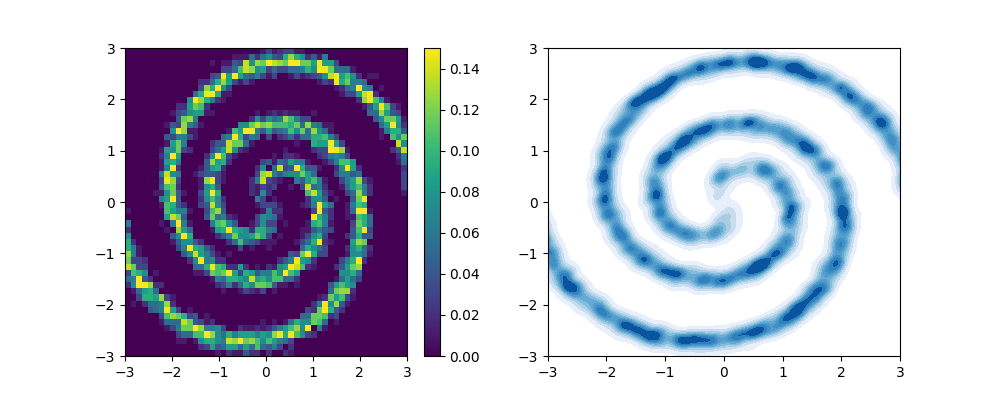
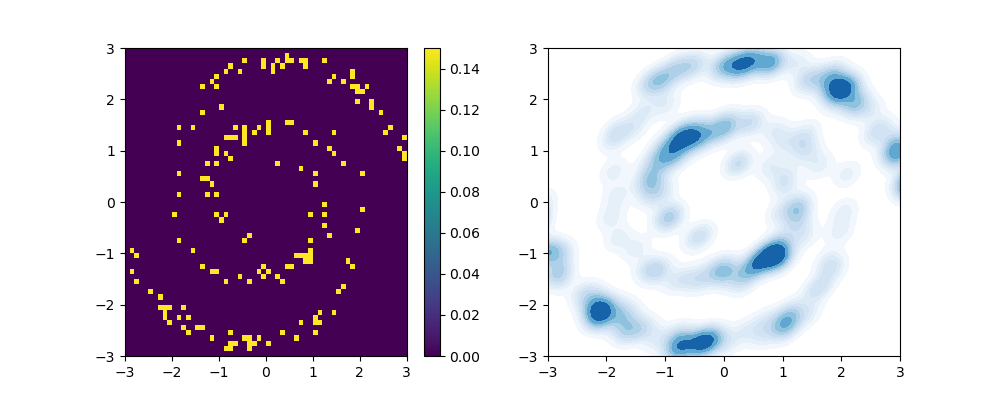
generic commit

diff --git a/scripts/transport/kvae_flow3.py b/scripts/transport/kvae_flow3.py
@@ -100,7 +100,6 @@ class Comp_transport_model:
     def map_var(self, x_mu, y_eta, y_mean, Lambda_var, X_var, fit_kernel):
         if self.approx:
             y_mean = geq_1d(torch.tensor(y_mean, device=self.device, dtype=self.dtype))
-            return 0 * y_mean
         else:
             y_mean = deepcopy(y_eta)
             y_eta = shuffle(y_eta)
@@ -137,22 +136,22 @@ class Comp_transport_model:
         param_dict = {'y_eta': y_eta, 'y_mean': y_mean + z_mean, 'y_var': y_var + z_var, 'x_mu': x_mu,
                        'y_approx': y_approx + z, 'y': torch.concat([x_mu, y_approx + z], dim=1)}
 
-
         if self.plot_steps:
             save_loc = f'../../data/kernel_transport/spiral_kflow/gen_map{step_idx}.png'
             map_vec = param_dict['y'].detach().cpu().numpy()
             sample_hmap(map_vec, save_loc, bins=75, bw_adjust= 0.25,
                     d=2, range=[[-3, 3], [-3, 3]])
+
         return param_dict
 
 
     def c_map(self, x, y, no_x = False):
+        self.approx = False
         param_dict = {'y_eta': y, 'y_mean': 0 , 'y_var': 0,
                        'x_mu': x, 'y_approx': 0, 'y': 0}
-        self.approx = False
         for step_idx in range(len(self.submodel_params['Lambda_mean'])):
             param_dict = self.param_map(step_idx, param_dict)
-            self.approx = True
+            self.approx=True
         if no_x:
             return param_dict['y_approx']
         return param_dict['y']
@@ -183,8 +182,8 @@ class CondTransportKernel(nn.Module):
 
         self.Y_mean = self.Y_eta
         self.Y_var = torch.zeros(self.Y_eta.shape,  device=self.device, dtype=self.dtype)
-        self.approx = self.params['approx']
-        if self.approx:
+        self.params['approx'] = False
+        if len(base_params['Y_mean']):
             self.Y_mean = geq_1d(torch.tensor(base_params['Y_mean'], device=self.device, dtype=self.dtype))
             self.Y_var = geq_1d(torch.tensor(base_params['Y_var'], device=self.device, dtype=self.dtype))
             self.params['approx'] = True
@@ -208,7 +207,6 @@ class CondTransportKernel(nn.Module):
 
         self.params['mmd_kernel_params']['l'] *= l_scale(self.Y_mu).cpu()
         self.mmd_kernel = get_kernel(self.params['mmd_kernel_params'], self.device)
-
         self.Z_mean = nn.Parameter(self.init_Z(), requires_grad=True)
         self.Z_var = nn.Parameter(self.init_Z(), requires_grad=True)
         self.mmd_YY = self.mmd_kernel(self.Y, self.Y)
@@ -217,7 +215,7 @@ class CondTransportKernel(nn.Module):
         self.Y_mean_test = deepcopy(self.Y_eta_test)
         self.Y_var_test = 0 * self.Y_eta_test
 
-        if self.approx:
+        if self.params['approx']:
             self.Y_mean_test = geq_1d(torch.tensor(base_params['Y_mean_test'], device=self.device, dtype=self.dtype))
             self.Y_var_test = geq_1d(torch.tensor(base_params['Y_var_test'], device=self.device, dtype=self.dtype))
 
@@ -260,7 +258,7 @@ class CondTransportKernel(nn.Module):
 
 
     def map_mean(self, x_mu, y_eta, y_mean):
-        if self.approx:
+        if self.params['approx']:
             y_mean = geq_1d(torch.tensor(y_mean, device=self.device, dtype=self.dtype))
         else:
             y_mean = deepcopy(y_eta)
@@ -271,9 +269,8 @@ class CondTransportKernel(nn.Module):
 
 
     def map_var(self, x_mu, y_eta, y_mean, y_var = []):
-        if self.approx:
+        if self.params['approx']:
             y_mean = geq_1d(torch.tensor(y_mean, device=self.device, dtype=self.dtype))
-            return 0 * y_mean
         else:
             y_mean = deepcopy(y_eta)
             y_eta = shuffle(y_eta)
@@ -299,7 +296,7 @@ class CondTransportKernel(nn.Module):
         z = z_mean + z_var
 
         y_approx = deepcopy(y_eta)
-        if self.approx:
+        if self.params['approx']:
             y_approx = y_mean + y_var
         y_eta = shuffle(y_eta)
         return_dict = {'y_eta': y_eta, 'y_mean': y_mean + z_mean, 'y_var': y_var + z_var,
@@ -324,7 +321,7 @@ class CondTransportKernel(nn.Module):
 
 
     def loss_mmd(self):
-        map_vec = torch.concat([self.X_mu, self.Y_approx  + self.Z_mean +  self.Z_var * float(self.approx)], dim=1)
+        map_vec = torch.concat([self.X_mu, self.Y_approx  + self.Z_mean +  self.Z_var], dim=1)
         target = self.Y
 
         mmd_ZZ = self.mmd_kernel(map_vec, map_vec)
@@ -342,7 +339,7 @@ class CondTransportKernel(nn.Module):
 
     def loss_reg(self):
         Z_mean = self.Z_mean
-        Z_var = self.Z_var * float(self.approx)
+        Z_var = self.Z_var
 
         reg_1 = self.params['reg_lambda'] * torch.trace(Z_mean.T @ self.fit_kXXmean_inv @ Z_mean)
         reg_2 = self.params['reg_lambda'] * torch.trace(Z_var.T @ self.fit_kXXvar_inv @ Z_var)
@@ -369,32 +366,31 @@ class CondTransportKernel(nn.Module):
         return loss, loss_dict
 
 
-def cond_kernel_transport(X_mu, Y_mu, Y_eta, params, n_iter = 101,  iters = 0,  approx = False, X_mu_test = [],
-                          Y_mean = [],Y_var = [], Y_eta_test = [],Y_mu_test = [], Y_mean_test = [], Y_var_test =[]):
+def cond_kernel_transport(X_mu, Y_mu, Y_eta, params, n_iter = 10001, Y_mean = [],Y_var = [], iters = 0,
+                          Y_eta_test = [], X_mu_test = [],Y_mu_test = [], Y_mean_test = [], Y_var_test =[]):
     transport_params = {'X_mu': X_mu, 'Y_mu': Y_mu, 'Y_eta': Y_eta, 'reg_lambda': 1e-5, 'Y_mean': Y_mean, 'Y_var': Y_var,
                         'fit_kernel_params': deepcopy(params['mmd']), 'mmd_kernel_params': deepcopy(params['fit']),
                         'print_freq': 100, 'learning_rate': .001, 'nugget': 1e-4, 'Y_eta_test': Y_eta_test,
                         'X_mu_test': X_mu_test, 'Y_mu_test': Y_mu_test, 'Y_mean_test': Y_mean_test,
-                        'Y_var_test': Y_var_test, 'iters': iters, 'approx': approx}
+                        'Y_var_test': Y_var_test, 'iters': iters}
     ctransport_kernel = CondTransportKernel(transport_params)
     train_kernel(ctransport_kernel, n_iter)
     return ctransport_kernel
 
 
-def comp_cond_kernel_transport(X_mu, Y_mu, Y_eta, params, n_iter = 101, n = 50,
-                               Y_eta_test = [], X_mu_test = [],Y_mu_test = [], f = 1):
+def comp_cond_kernel_transport(X_mu, Y_mu, Y_eta, params, n_iter = 1001, n = 50,
+                               Y_eta_test = [], X_mu_test = [],Y_mu_test = [], f = .95):
     model_params = {'fit_kernel': [], 'Lambda_mean': [], 'X_mean': [], 'Lambda_var': [], 'X_var': []}
     iters = 0
     eps = 1e-3
     noise_shrink_c = np.exp(np.log(eps)/(n))
 
-    Y_mean = 0
-    Y_mean_test = 0
+    Y_mean = []
+    Y_mean_test = []
     Y_var = 0
     Y_var_test = 0
-    approx = False
     for i in range(n):
-        model = cond_kernel_transport(X_mu, Y_mu, Y_eta, params, n_iter, Y_eta_test = Y_eta_test, approx =approx,
+        model = cond_kernel_transport(X_mu, Y_mu, Y_eta, params, n_iter, Y_eta_test = Y_eta_test,
                                       Y_mean = Y_mean , Y_var = Y_var, X_mu_test = X_mu_test,Y_mu_test = Y_mu_test,
                                       Y_mean_test =  Y_mean_test, Y_var_test = Y_var_test, iters = iters)
 
@@ -418,7 +414,6 @@ def comp_cond_kernel_transport(X_mu, Y_mu, Y_eta, params, n_iter = 101, n = 50,
         Y_eta *= noise_shrink_c
         Y_eta_test *= noise_shrink_c
         iters = model.iters
-        approx = True
     return Comp_transport_model(model_params)
 
 
@@ -431,8 +426,8 @@ def zero_pad(array):
     return np.concatenate([zero_array, array], axis = 1)
 
 
-def train_cond_transport(ref_gen, target_gen, params, N, n_iter = 101, process_funcs = [],
-                         cond_model_trainer = cond_kernel_transport, idx_dict = {},  n_transports = 100):
+def train_cond_transport(ref_gen, target_gen, params, N = 1000, n_iter = 1001, process_funcs = [],
+                         cond_model_trainer = cond_kernel_transport, idx_dict = {},  n_transports = 40):
     ref_sample = ref_gen(N)
     target_sample = target_gen(N)
 
@@ -712,9 +707,9 @@ def vl_exp(N=10000, n_iter=31, Yd=18, normal=True, exp_name='vl_exp'):
 def run():
     ref_gen = sample_normal
     target_gen = sample_spirals
-    N = 2000
+    N = 20
     two_d_exp(ref_gen, target_gen, N, n_iter=101, plt_range=[[-3, 3], [-3, 3]], process_funcs=[], skip_idx=1,
-              slice_vals=[0], slice_range=[-3, 3], exp_name='exp', n_transports=100, vmax=.15)
+              slice_vals=[0], slice_range=[-3, 3], exp_name='spiral_kflow', n_transports=10, vmax=.15)
 
 
 if __name__=='__main__':
